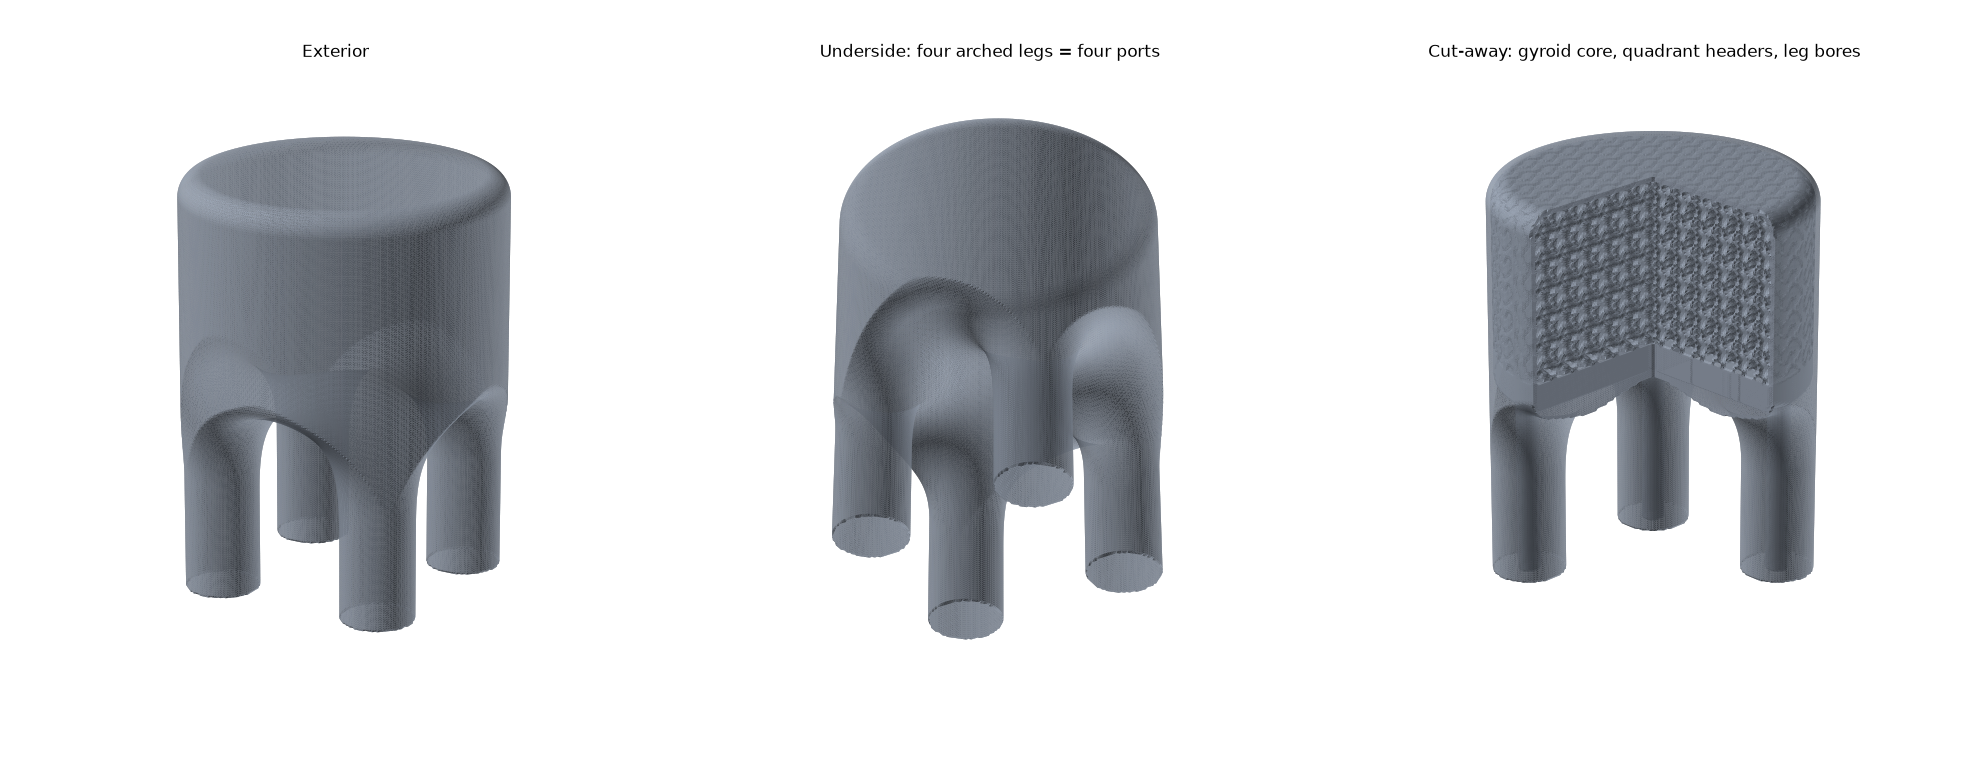
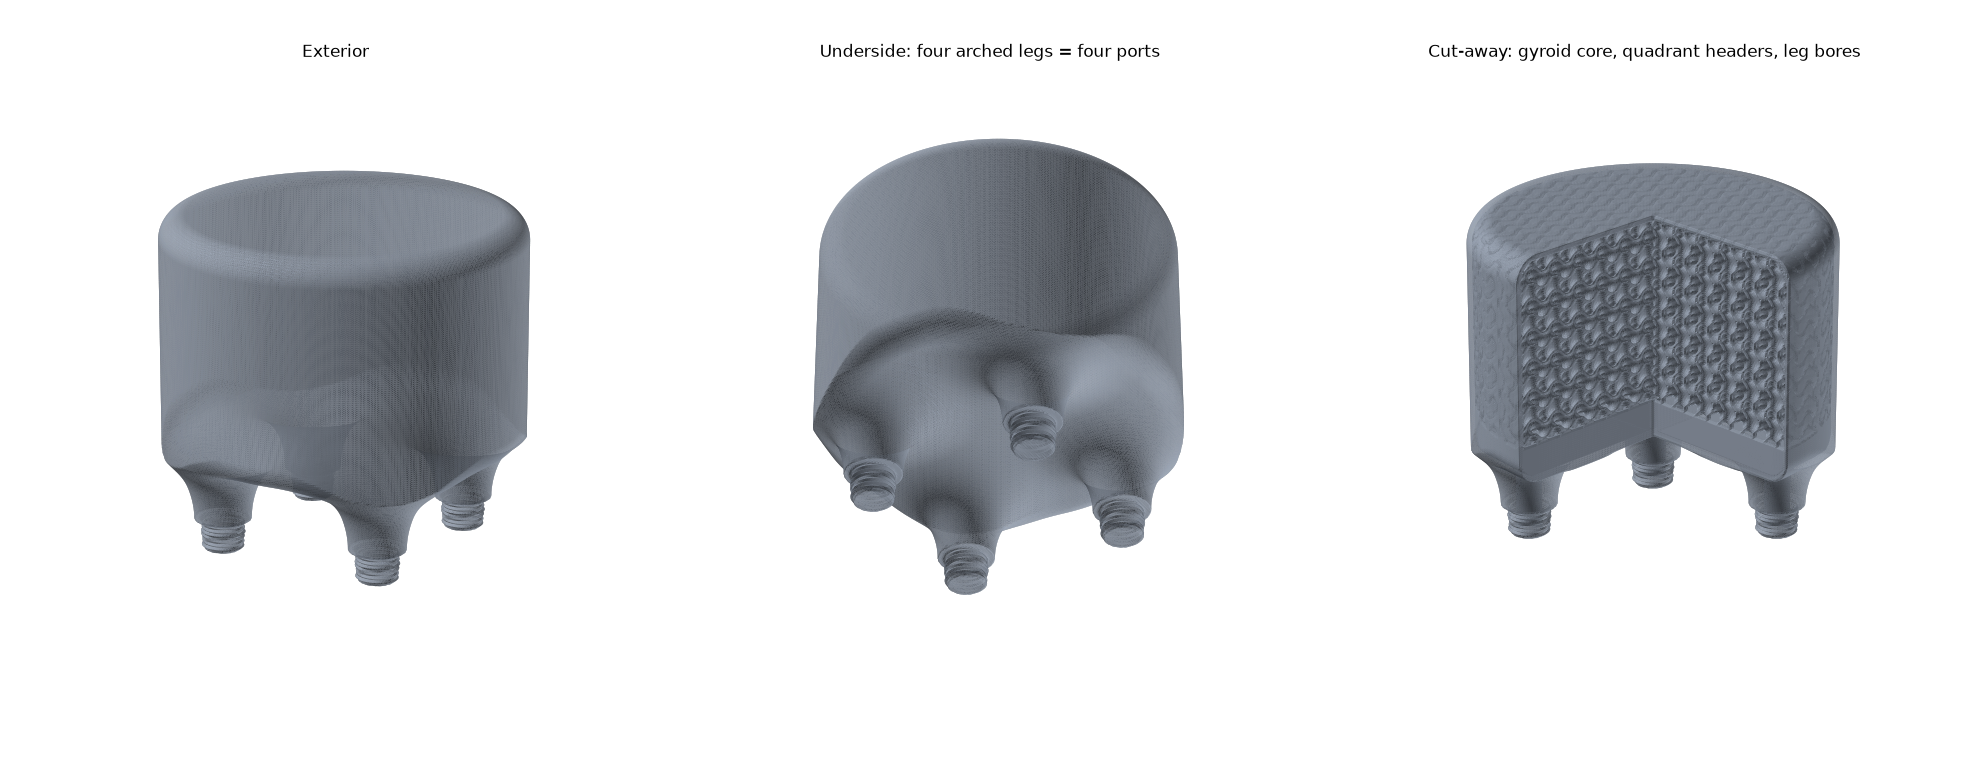
Concept: 40 mm tapered legs with 3/8-18 NPT male tips
Claude-Session: https://claude.ai/code/session_01Ccuvv7knuVFwKVpBMimzZu

diff --git a/heat-exchanger/cyl_hx_concept.py b/heat-exchanger/cyl_hx_concept.py
@@ -9,8 +9,9 @@ thicker than a printable design would use so they show at this resolution.
 
 Layout (mm, origin at centre of cylinder base):
     Cylinder: radius R, from z = 0 to z = HB, top edge rounded.
-    Legs at 45, 135, 225, 315 deg, from z = -LEG_H to 0, flared into the
-    cylinder with a large smooth blend (the "arches").
+    Legs at 45, 135, 225, 315 deg, LEG_H = 40 mm long (z = -40 to 0).
+    Each leg is a slow trumpet taper out of the cylinder underside that
+    ends in a 3/8"-18 NPT MALE threaded tip (ASME B1.20.1 basic sizes).
     HOT  legs: 45 and 225 deg (in / out)   COLD legs: 135 and 315 deg.
     Bottom header split into four quadrant plenums, one per leg.
     Gyroid core above the headers; a seal slab lets each fluid's
@@ -27,10 +28,20 @@ from skimage.measure import marching_cubes
 
 R, HB, R_TOP = 70.0, 90.0, 10.0       # cylinder radius, height, top rounding
 SHELL = 2.0
-LEG_H, LEG_R = 90.0, 16.0
-LEG_POS = R - LEG_R                   # legs flush with the outer wall
-BLEND = 40.0                          # arch blend radius
+LEG_H = 40.0                          # leg length below the cylinder
+R_BASE = 22.0                         # leg radius where it leaves the body
+R_NECK = 11.0                         # leg radius just above the thread
+LEG_POS = R - R_BASE                  # leg base flush with the outer wall
+BLEND = 15.0                          # extra fillet at the leg/body joint
 BORE_R = 5.0                          # 10 mm flow bore
+
+# 3/8"-18 NPT external thread (ASME B1.20.1 basic values)
+IN = 25.4
+NPT_P = IN / 18.0                     # 1.411 mm pitch
+NPT_E0 = 0.61201 * IN                 # 15.545 mm pitch dia at the tip
+NPT_H = 0.8 * NPT_P                   # truncated thread height
+NPT_TAPER = 1.0 / 16.0                # on diameter
+THREAD_L = 12.0                       # threaded length (L2 = 10.2 mm)
 ZP = 14.0                             # header (plenum) height
 DV = 2.0                              # divider between quadrant plenums
 S_SEAL = 1.5
@@ -60,9 +71,30 @@ def leg_xy(a):
 
 
 def leg(x, y, z, a):
+    """Tapered leg: trumpet flare from R_BASE at the body to R_NECK at the
+    thread shoulder, then a 3/8-18 NPT male thread down to the tip."""
     lx, ly = leg_xy(a)
-    return np.maximum(np.hypot(x - lx, y - ly) - LEG_R,
-                      np.maximum(-LEG_H - z, z - 1.0))
+    dx, dy = x - lx, y - ly
+    rho, t = np.hypot(dx, dy), -z                  # t = depth below body
+    t1 = LEG_H - THREAD_L                          # end of the flare
+    u = np.clip(t / t1, 0, 1)
+    r_prof = R_NECK + (R_BASE - R_NECK) * (1 - u) ** 2
+    slope = 2 * (R_BASE - R_NECK) * (1 - u) / t1
+    flare = (rho - r_prof) / np.sqrt(1 + slope ** 2)
+    flare = np.maximum(flare, np.maximum(z - 1.0, t - t1))
+
+    # NPT thread, right-handed about the outward (-z) axis
+    s_tip = LEG_H - t                              # distance from the tip
+    th = np.arctan2(dx, dy)
+    rp = (NPT_E0 + np.maximum(s_tip, 0) * NPT_TAPER) / 2
+    w = np.mod(t - NPT_P * th / (2 * np.pi), NPT_P) - NPT_P / 2
+    r_thr = rp + np.tan(np.radians(60)) * (NPT_P / 4 - np.abs(w))
+    r_thr = np.clip(r_thr, rp - NPT_H / 2, rp + NPT_H / 2)
+    thr = 0.5 * (rho - r_thr)
+    thr = np.maximum(thr, -s_tip)                  # cut at the tip
+    thr = np.maximum(thr, (rho - rp) - (s_tip - 0.8))   # tip chamfer
+    thr = np.maximum(thr, s_tip - (THREAD_L + 1.0))     # runs into shoulder
+    return np.minimum(flare, thr)
 
 
 def sector(x, y, a):
@@ -128,14 +160,14 @@ def shade(v, f, rgb):
 def draw3d(ax, parts, view, title):
     for tri, col in parts:
         ax.add_collection3d(Poly3DCollection(tri, facecolors=col, edgecolor="none"))
-    ax.set_xlim(-75, 75); ax.set_ylim(-75, 75); ax.set_zlim(-92, 92)
-    ax.set_box_aspect((150, 150, 184))
+    ax.set_xlim(-75, 75); ax.set_ylim(-75, 75); ax.set_zlim(-42, 92)
+    ax.set_box_aspect((150, 150, 134))
     ax.view_init(*view); ax.set_axis_off(); ax.set_title(title, fontsize=11)
 
 
 def main():
-    step = 1.0
-    xs = np.arange(-73, 73.01, step); zs = np.arange(-93, 93.01, step)
+    step = 0.8
+    xs = np.arange(-73, 73.01, step); zs = np.arange(-43, 93.01, step)
     X, Y, Z = np.meshgrid(xs, xs, zs, indexing="ij")
     outer, solid, hot, cold = fields(X, Y, Z)
     o = np.array([xs[0], xs[0], zs[0]])
@@ -157,6 +189,38 @@ def main():
            "Cut-away: gyroid core, quadrant headers, leg bores")
     plt.tight_layout(); plt.savefig("figures/cyl_hx_3d.png"); plt.close()
 
+    # close-up of one leg: exterior (outer field, so no hidden internal
+    # faces) and a section through the leg axis
+    lx, ly = leg_xy(45)
+    fs = 0.15
+    gx = np.arange(lx - 26, lx + 26, fs); gy = np.arange(ly - 26, ly + 26, fs)
+    gz = np.arange(-41.5, 2, fs)
+    Xl, Yl, Zl = np.meshgrid(gx, gy, gz, indexing="ij")
+    ol, _, _, _ = fields(Xl, Yl, Zl)
+    ol = np.maximum(ol, Zl - 0.5)                  # leg only, below the body
+    ol = np.maximum(ol, np.hypot(Xl - lx, Yl - ly) - 25)
+    del Xl, Yl, Zl
+    v, f = mesh(ol, fs, np.array([gx[0], gy[0], gz[0]]))
+    tri, col = shade(v, f, grey)
+    fig = plt.figure(figsize=(13, 6), dpi=110)
+    ax = fig.add_subplot(1, 2, 1, projection="3d")
+    ax.add_collection3d(Poly3DCollection(tri, facecolors=col, edgecolor="none"))
+    ax.set_xlim(lx - 26, lx + 26); ax.set_ylim(ly - 26, ly + 26); ax.set_zlim(-42, 2)
+    ax.set_box_aspect((52, 52, 44)); ax.view_init(-12, -60); ax.set_axis_off()
+    ax.set_title("Leg: slow taper from the body to a 3/8\"-18 NPT male tip", fontsize=11)
+    ax = fig.add_subplot(1, 2, 2)
+    q = np.arange(-28, 28, 0.08); qz = np.arange(-42, 18, 0.08)
+    Q, QZ = np.meshgrid(q, qz, indexing="ij")
+    tt = np.radians(45)
+    _, s2, h2, c2 = fields(lx + Q * np.cos(tt), ly + Q * np.sin(tt), QZ)
+    m = np.zeros(s2.shape, int); m[s2 < 0] = 1; m[h2 < 0] = 2; m[c2 < 0] = 3
+    ax.imshow(m.T, origin="lower", extent=(q[0], q[-1], qz[0], qz[-1]),
+              cmap=ListedColormap(["white", "#555b66", "#E4572E", "#2E86AB"]),
+              vmin=0, vmax=3, interpolation="nearest")
+    ax.set_title("Section through the leg axis (hot leg, 45 deg)", fontsize=11)
+    ax.set_xlabel("mm"); ax.set_ylabel("z (mm)")
+    plt.tight_layout(); plt.savefig("figures/cyl_hx_leg.png"); plt.close()
+
     # 3) colour sections: solid grey, hot red, cold blue
     cmap = ListedColormap(["white", "#555b66", "#E4572E", "#2E86AB"])
     def lab(s, h, c):
@@ -172,7 +236,7 @@ def main():
         ax.imshow(lab(s, h, c).T, origin="lower", extent=(g[0], g[-1], g[0], g[-1]),
                   cmap=cmap, vmin=0, vmax=3, interpolation="nearest")
         ax.set_title(t); ax.set_xlabel("x (mm)"); ax.set_ylabel("y (mm)")
-    gz = np.arange(-93, 93.01, 0.25)
+    gz = np.arange(-43, 93.01, 0.25)
     for ax, ang, t in [(axs[2], 45, "Vertical section through HOT legs\n(45 / 225 deg)"),
                        (axs[3], 135, "Vertical section through COLD legs\n(135 / 315 deg)")]:
         Sg, Zg = np.meshgrid(g, gz, indexing="ij")
